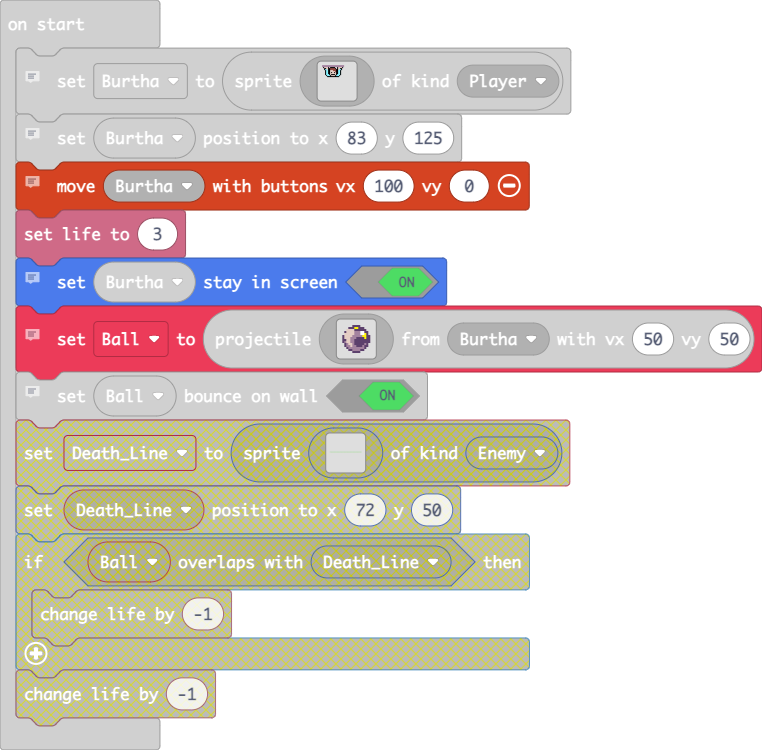
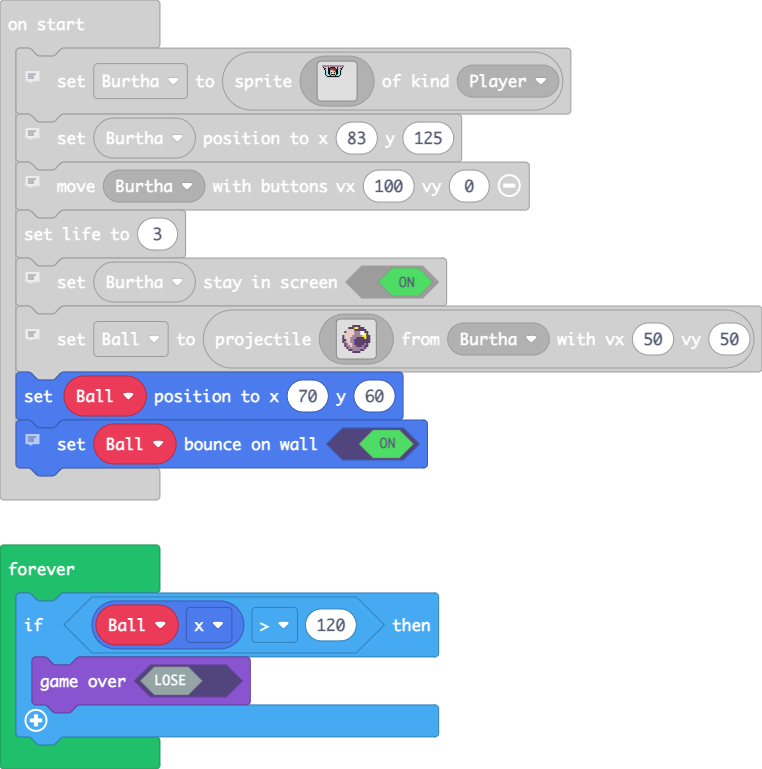
Update main.blocks, main.ts

diff --git a/main.ts b/main.ts
@@ -31,5 +31,11 @@ Ball = sprites.createProjectileFromSprite(img`
     . . . . . . c c c c . . . . . . 
     . . . . . . . . . . . . . . . . 
     `, Burtha, 50, 50)
+Ball.setPosition(70, 60)
 // Makes it so that the ball bounces on the wall when it touches them
 Ball.setBounceOnWall(true)
+forever(function () {
+    if (Ball.x > 120) {
+        game.gameOver(false)
+    }
+})
